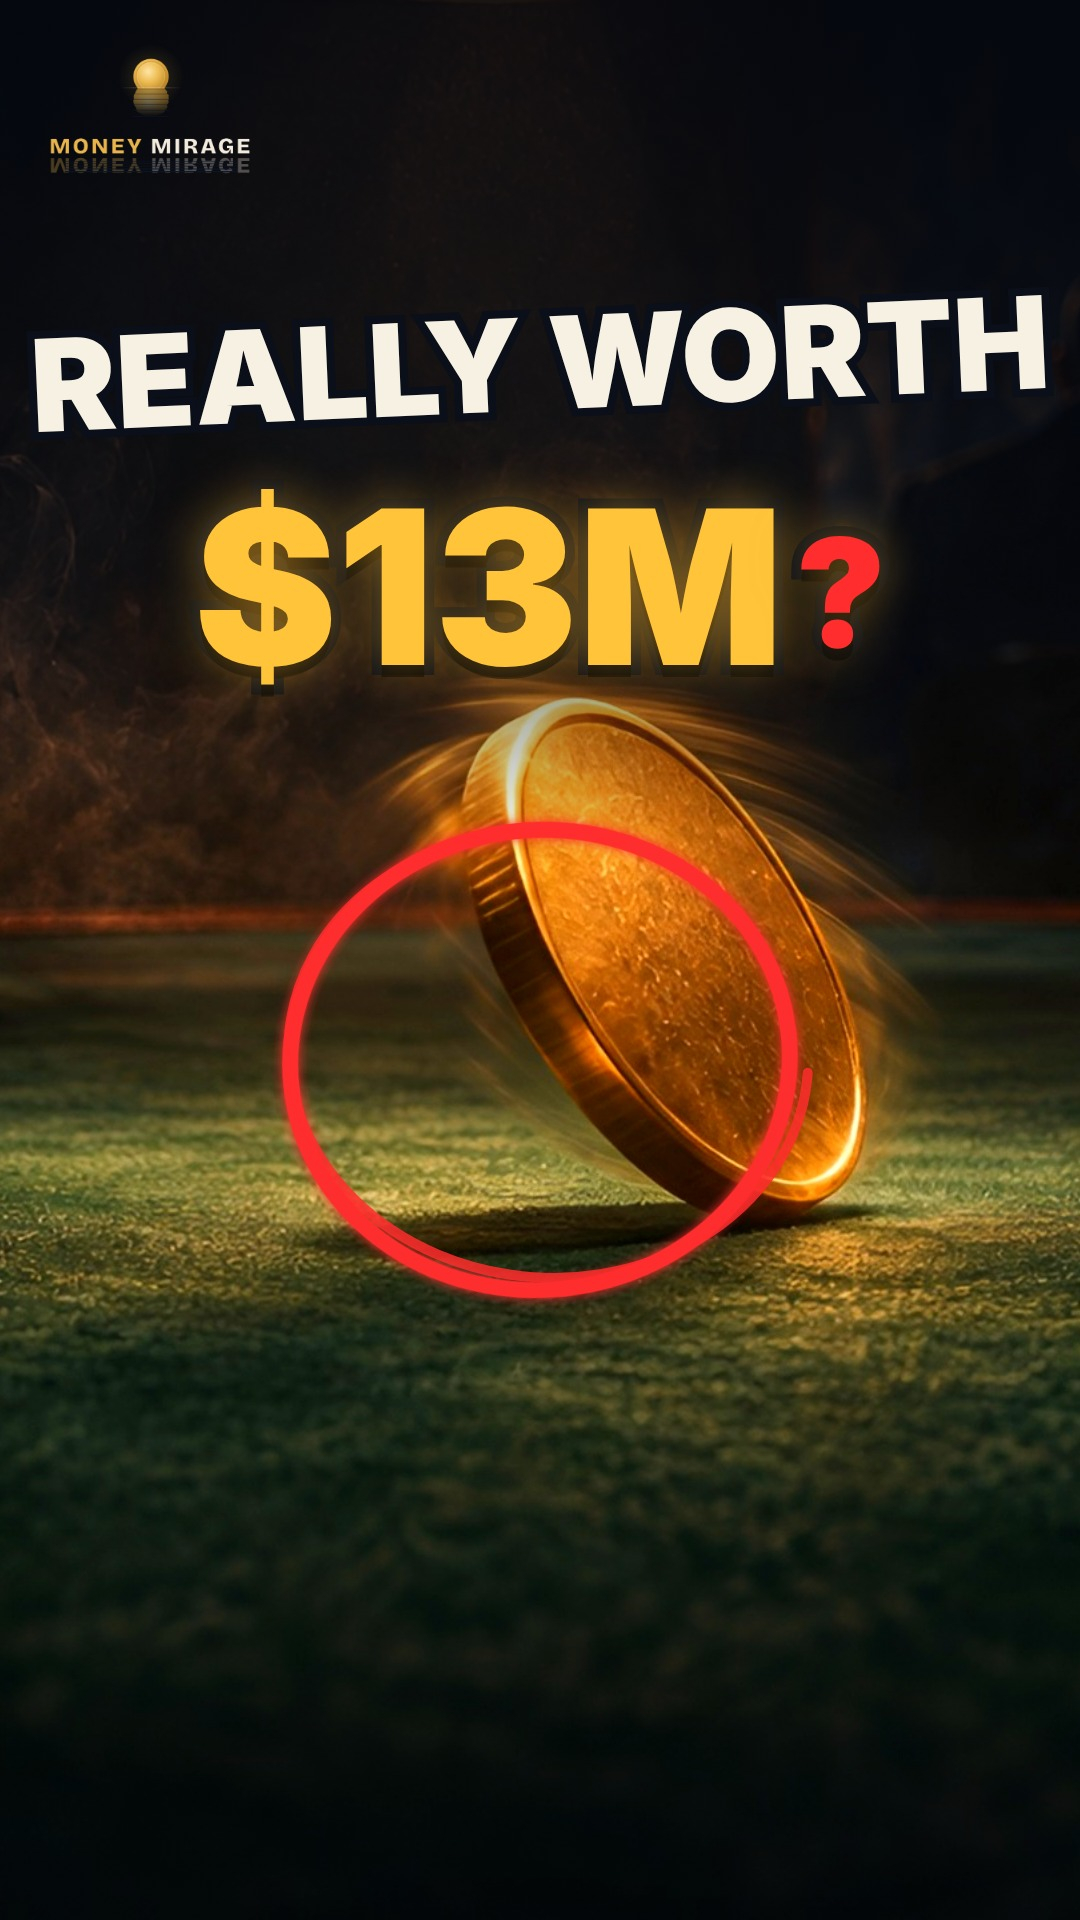
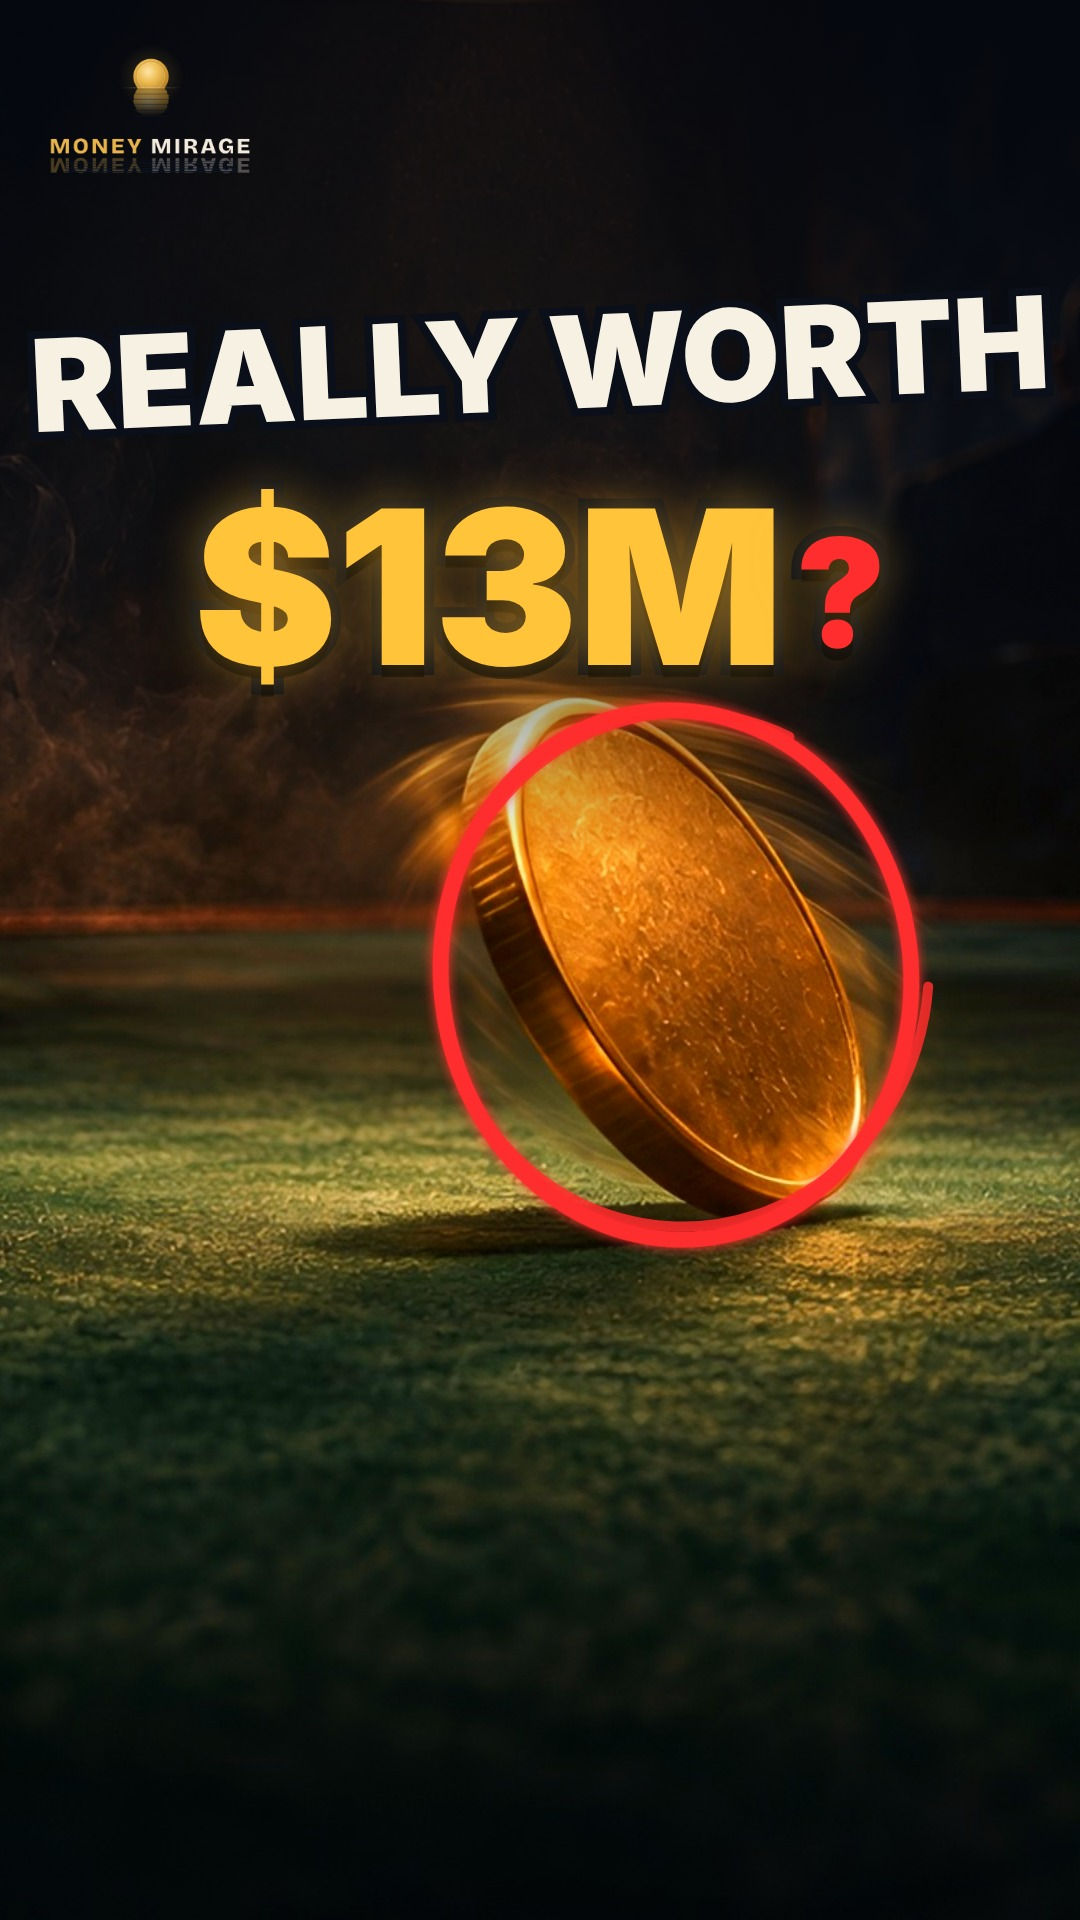
mms s031: thumbnail options A-E (vertical) + feed test
Claude-Session: https://claude.ai/code/session_01Qv21gJoHdC1nLaRycp9MrY

Changed region(s): [[0.2444, 0.3438, 0.8861, 0.6875]]

diff --git a/money-mirage/shorts/s031-maple-coin/thumbs/options/opt_E.html b/money-mirage/shorts/s031-maple-coin/thumbs/options/opt_E.html
@@ -1,0 +1,11 @@
+<!doctype html><html><head><meta charset="UTF-8"><style>@font-face{font-family:Inter;font-weight:900;src:url(file:///home/claude/media-engine/money-mirage/mm3/library/fonts/inter900.woff2)}
+body{margin:0}#r{position:relative;width:1080px;height:1920px;overflow:hidden;background:#05080F}
+.bg{position:absolute;filter:contrast(1.12) saturate(1.55) brightness(1.18)}
+.sh{position:absolute;inset:0;background:linear-gradient(180deg,rgba(5,8,15,.7) 0%,rgba(5,8,15,.35) 28%,rgba(5,8,15,0) 42%)}
+.w,.n{position:absolute;left:0;width:1080px;text-align:center;font-family:Inter,sans-serif;font-weight:900;line-height:1;paint-order:stroke fill}
+.w{font-size:140px;color:#F7F1E3;-webkit-text-stroke:16px #0A0F1A;transform:rotate(-2.5deg)}
+.n{color:#FFC43A;-webkit-text-stroke:20px #0A0F1A;text-shadow:0 0 60px rgba(255,180,40,.7),0 12px 0 rgba(0,0,0,.6)}
+.n b{color:#FF2D2D;font-size:.7em;vertical-align:.12em;margin-left:.06em}
+.s,s{text-decoration:line-through;text-decoration-color:#FF2D2D;text-decoration-thickness:22px} .s{color:#F7F1E3}
+.dk{position:absolute;left:0;right:0;top:960px;height:700px;background:radial-gradient(ellipse at center,rgba(5,8,15,.6) 0%,rgba(5,8,15,0) 70%)}
+.lg{position:absolute;left:36px;top:40px;width:230px} svg{position:absolute;left:0;top:0}</style></head><body><div id="r"><img class="bg" src="file:///home/claude/media-engine/money-mirage/episodes/ep02/art/baked/coin_spin__film.jpg" style="height:1920px;width:3413px;left:-1303px;top:0"><div class="sh"></div><svg width="1080" height="1920"><defs><filter id="gl"><feGaussianBlur stdDeviation="6" result="b"/><feMerge><feMergeNode in="b"/><feMergeNode in="SourceGraphic"/></feMerge></filter></defs><ellipse cx="545" cy="975" rx="235" ry="265" fill="none" stroke="#FF2D2D" stroke-width="16" stroke-linecap="round" transform="rotate(-6 545 975)" filter="url(#gl)" stroke-dasharray="1616 60"/><ellipse cx="553" cy="969" rx="244.4" ry="257.05" fill="none" stroke="#FF2D2D" stroke-width="10" stroke-linecap="round" transform="rotate(4 545 975)" opacity=".85" stroke-dasharray="1272 400"/></svg><div class="n" style="top:250px;font-size:140px;color:#F7F1E3">$1,000,000</div><div class="w" style="top:440px;font-size:130px;color:#FF3B30">COIN?</div><div class="n" style="top:1380px;font-size:200px">LIES<b>!</b></div><img class="lg" src="file:///home/claude/media-engine/money-mirage/logo/MoneyMirage_logo_transparent.png"></div></body></html>

diff --git a/money-mirage/shorts/s031-maple-coin/thumbs/options/opt_A.html b/money-mirage/shorts/s031-maple-coin/thumbs/options/opt_A.html
@@ -1,0 +1,11 @@
+<!doctype html><html><head><meta charset="UTF-8"><style>@font-face{font-family:Inter;font-weight:900;src:url(file:///home/claude/media-engine/money-mirage/mm3/library/fonts/inter900.woff2)}
+body{margin:0}#r{position:relative;width:1080px;height:1920px;overflow:hidden;background:#05080F}
+.bg{position:absolute;filter:contrast(1.12) saturate(1.55) brightness(1.18)}
+.sh{position:absolute;inset:0;background:linear-gradient(180deg,rgba(5,8,15,.7) 0%,rgba(5,8,15,.35) 28%,rgba(5,8,15,0) 42%)}
+.w,.n{position:absolute;left:0;width:1080px;text-align:center;font-family:Inter,sans-serif;font-weight:900;line-height:1;paint-order:stroke fill}
+.w{font-size:140px;color:#F7F1E3;-webkit-text-stroke:16px #0A0F1A;transform:rotate(-2.5deg)}
+.n{color:#FFC43A;-webkit-text-stroke:20px #0A0F1A;text-shadow:0 0 60px rgba(255,180,40,.7),0 12px 0 rgba(0,0,0,.6)}
+.n b{color:#FF2D2D;font-size:.7em;vertical-align:.12em;margin-left:.06em}
+.s,s{text-decoration:line-through;text-decoration-color:#FF2D2D;text-decoration-thickness:22px} .s{color:#F7F1E3}
+.dk{position:absolute;left:0;right:0;top:960px;height:700px;background:radial-gradient(ellipse at center,rgba(5,8,15,.6) 0%,rgba(5,8,15,0) 70%)}
+.lg{position:absolute;left:36px;top:40px;width:230px} svg{position:absolute;left:0;top:0}</style></head><body><div id="r"><img class="bg" src="file:///home/claude/media-engine/money-mirage/episodes/ep01/art/baked/p_mirage__film.jpg" style="height:1920px;width:3413px;left:-1337px;top:0"><div class="sh"></div><svg width="1080" height="1920"><defs><filter id="gl"><feGaussianBlur stdDeviation="6" result="b"/><feMerge><feMergeNode in="b"/><feMergeNode in="SourceGraphic"/></feMerge></filter></defs><ellipse cx="470" cy="365" rx="300" ry="290" fill="none" stroke="#FF2D2D" stroke-width="16" stroke-linecap="round" transform="rotate(-6 470 365)" filter="url(#gl)" stroke-dasharray="1830 60"/><ellipse cx="478" cy="359" rx="312.0" ry="281.3" fill="none" stroke="#FF2D2D" stroke-width="10" stroke-linecap="round" transform="rotate(4 470 365)" opacity=".85" stroke-dasharray="1440 400"/></svg><div class="dk"></div><div class="w" style="top:1040px">STAMPED <s>$1M</s></div><div class="n" style="top:1220px;font-size:260px">$13M<b>?</b></div><img class="lg" src="file:///home/claude/media-engine/money-mirage/logo/MoneyMirage_logo_transparent.png"></div></body></html>

diff --git a/money-mirage/shorts/s031-maple-coin/thumbs/options/opt_C.html b/money-mirage/shorts/s031-maple-coin/thumbs/options/opt_C.html
@@ -1,0 +1,11 @@
+<!doctype html><html><head><meta charset="UTF-8"><style>@font-face{font-family:Inter;font-weight:900;src:url(file:///home/claude/media-engine/money-mirage/mm3/library/fonts/inter900.woff2)}
+body{margin:0}#r{position:relative;width:1080px;height:1920px;overflow:hidden;background:#05080F}
+.bg{position:absolute;filter:contrast(1.12) saturate(1.55) brightness(1.18)}
+.sh{position:absolute;inset:0;background:linear-gradient(180deg,rgba(5,8,15,.7) 0%,rgba(5,8,15,.35) 28%,rgba(5,8,15,0) 42%)}
+.w,.n{position:absolute;left:0;width:1080px;text-align:center;font-family:Inter,sans-serif;font-weight:900;line-height:1;paint-order:stroke fill}
+.w{font-size:140px;color:#F7F1E3;-webkit-text-stroke:16px #0A0F1A;transform:rotate(-2.5deg)}
+.n{color:#FFC43A;-webkit-text-stroke:20px #0A0F1A;text-shadow:0 0 60px rgba(255,180,40,.7),0 12px 0 rgba(0,0,0,.6)}
+.n b{color:#FF2D2D;font-size:.7em;vertical-align:.12em;margin-left:.06em}
+.s,s{text-decoration:line-through;text-decoration-color:#FF2D2D;text-decoration-thickness:22px} .s{color:#F7F1E3}
+.dk{position:absolute;left:0;right:0;top:960px;height:700px;background:radial-gradient(ellipse at center,rgba(5,8,15,.6) 0%,rgba(5,8,15,0) 70%)}
+.lg{position:absolute;left:36px;top:40px;width:230px} svg{position:absolute;left:0;top:0}</style></head><body><div id="r"><img class="bg" src="file:///home/claude/media-engine/money-mirage/episodes/ep02/art/baked/coin_spin__film.jpg" style="height:1920px;width:3413px;left:-1303px;top:0"><div class="sh"></div><svg width="1080" height="1920"><defs><filter id="gl"><feGaussianBlur stdDeviation="6" result="b"/><feMerge><feMergeNode in="b"/><feMergeNode in="SourceGraphic"/></feMerge></filter></defs><ellipse cx="545" cy="975" rx="235" ry="265" fill="none" stroke="#FF2D2D" stroke-width="16" stroke-linecap="round" transform="rotate(-6 545 975)" filter="url(#gl)" stroke-dasharray="1616 60"/><ellipse cx="553" cy="969" rx="244.4" ry="257.05" fill="none" stroke="#FF2D2D" stroke-width="10" stroke-linecap="round" transform="rotate(4 545 975)" opacity=".85" stroke-dasharray="1272 400"/></svg><div class="w" style="top:300px;font-size:128px">REALLY WORTH</div><div class="n" style="top:470px;font-size:215px">$13M<b>?</b></div><img class="lg" src="file:///home/claude/media-engine/money-mirage/logo/MoneyMirage_logo_transparent.png"></div></body></html>

diff --git a/money-mirage/shorts/s031-maple-coin/thumbs/options/opt_D.html b/money-mirage/shorts/s031-maple-coin/thumbs/options/opt_D.html
@@ -1,0 +1,11 @@
+<!doctype html><html><head><meta charset="UTF-8"><style>@font-face{font-family:Inter;font-weight:900;src:url(file:///home/claude/media-engine/money-mirage/mm3/library/fonts/inter900.woff2)}
+body{margin:0}#r{position:relative;width:1080px;height:1920px;overflow:hidden;background:#05080F}
+.bg{position:absolute;filter:contrast(1.12) saturate(1.55) brightness(1.18)}
+.sh{position:absolute;inset:0;background:linear-gradient(180deg,rgba(5,8,15,.7) 0%,rgba(5,8,15,.35) 28%,rgba(5,8,15,0) 42%)}
+.w,.n{position:absolute;left:0;width:1080px;text-align:center;font-family:Inter,sans-serif;font-weight:900;line-height:1;paint-order:stroke fill}
+.w{font-size:140px;color:#F7F1E3;-webkit-text-stroke:16px #0A0F1A;transform:rotate(-2.5deg)}
+.n{color:#FFC43A;-webkit-text-stroke:20px #0A0F1A;text-shadow:0 0 60px rgba(255,180,40,.7),0 12px 0 rgba(0,0,0,.6)}
+.n b{color:#FF2D2D;font-size:.7em;vertical-align:.12em;margin-left:.06em}
+.s,s{text-decoration:line-through;text-decoration-color:#FF2D2D;text-decoration-thickness:22px} .s{color:#F7F1E3}
+.dk{position:absolute;left:0;right:0;top:960px;height:700px;background:radial-gradient(ellipse at center,rgba(5,8,15,.6) 0%,rgba(5,8,15,0) 70%)}
+.lg{position:absolute;left:36px;top:40px;width:230px} svg{position:absolute;left:0;top:0}</style></head><body><div id="r"><img class="bg" src="file:///home/claude/media-engine/money-mirage/episodes/ep02/art/baked/vault_full__film.jpg" style="height:1920px;width:3413px;left:-825px;top:0"><div class="sh"></div><div class="w" style="top:260px;font-size:120px">SAYS <s>$1M</s></div><div class="w" style="top:420px;font-size:120px">WORTH</div><div class="n" style="top:560px;font-size:250px">$13M<b>?</b></div><img class="lg" src="file:///home/claude/media-engine/money-mirage/logo/MoneyMirage_logo_transparent.png"></div></body></html>

diff --git a/money-mirage/shorts/s031-maple-coin/thumbs/options/opt_B.html b/money-mirage/shorts/s031-maple-coin/thumbs/options/opt_B.html
@@ -1,0 +1,11 @@
+<!doctype html><html><head><meta charset="UTF-8"><style>@font-face{font-family:Inter;font-weight:900;src:url(file:///home/claude/media-engine/money-mirage/mm3/library/fonts/inter900.woff2)}
+body{margin:0}#r{position:relative;width:1080px;height:1920px;overflow:hidden;background:#05080F}
+.bg{position:absolute;filter:contrast(1.12) saturate(1.55) brightness(1.18)}
+.sh{position:absolute;inset:0;background:linear-gradient(180deg,rgba(5,8,15,.7) 0%,rgba(5,8,15,.35) 28%,rgba(5,8,15,0) 42%)}
+.w,.n{position:absolute;left:0;width:1080px;text-align:center;font-family:Inter,sans-serif;font-weight:900;line-height:1;paint-order:stroke fill}
+.w{font-size:140px;color:#F7F1E3;-webkit-text-stroke:16px #0A0F1A;transform:rotate(-2.5deg)}
+.n{color:#FFC43A;-webkit-text-stroke:20px #0A0F1A;text-shadow:0 0 60px rgba(255,180,40,.7),0 12px 0 rgba(0,0,0,.6)}
+.n b{color:#FF2D2D;font-size:.7em;vertical-align:.12em;margin-left:.06em}
+.s,s{text-decoration:line-through;text-decoration-color:#FF2D2D;text-decoration-thickness:22px} .s{color:#F7F1E3}
+.dk{position:absolute;left:0;right:0;top:960px;height:700px;background:radial-gradient(ellipse at center,rgba(5,8,15,.6) 0%,rgba(5,8,15,0) 70%)}
+.lg{position:absolute;left:36px;top:40px;width:230px} svg{position:absolute;left:0;top:0}</style></head><body><div id="r"><img class="bg" src="file:///home/claude/media-engine/money-mirage/episodes/ep01/art/baked/gold_cube__film.jpg" style="height:1920px;width:3413px;left:-1952px;top:0"><div class="sh"></div><div class="w" style="top:270px">100 KG GOLD</div><div class="n" style="top:430px;font-size:250px">$13M<b>?</b></div><img class="lg" src="file:///home/claude/media-engine/money-mirage/logo/MoneyMirage_logo_transparent.png"></div></body></html>

diff --git a/money-mirage/shorts/s031-maple-coin/thumbs/make_options.py b/money-mirage/shorts/s031-maple-coin/thumbs/make_options.py
@@ -1,0 +1,59 @@
+# s031 thumbnail options: vertical 1080x1920 only, colour-popping. Renders opt_*.jpg + a contact sheet.
+import os, asyncio
+from playwright.async_api import async_playwright
+H = os.path.dirname(os.path.abspath(__file__)); R = os.path.abspath(os.path.join(H, '../../../..'))
+B = os.path.join(H, '../art/baked'); F = f'file://{R}/money-mirage/mm3/library/fonts/'
+LOGO = f'file://{R}/money-mirage/logo/MoneyMirage_logo_transparent.png'
+W, Hh = 1080, 1920
+def plate(name, x):   # 16:9 plate scaled to 1920 tall, subject at plate x centred
+    pw = Hh * 16 / 9; return f'<img class="bg" src="file://{os.path.realpath(os.path.join(B, name + "__film.jpg"))}" style="height:{Hh}px;width:{pw:.0f}px;left:{540 - x * pw:.0f}px;top:0">'
+def ring(cx, cy, rx, ry, col='#FF2D2D'):
+    return (f'<svg width="{W}" height="{Hh}"><defs><filter id="gl"><feGaussianBlur stdDeviation="6" result="b"/><feMerge><feMergeNode in="b"/><feMergeNode in="SourceGraphic"/></feMerge></filter></defs>'
+            f'<ellipse cx="{cx}" cy="{cy}" rx="{rx}" ry="{ry}" fill="none" stroke="{col}" stroke-width="16" stroke-linecap="round" transform="rotate(-6 {cx} {cy})" filter="url(#gl)" stroke-dasharray="{int(6.1*max(rx,ry))} 60"/>'
+            f'<ellipse cx="{cx+8}" cy="{cy-6}" rx="{rx*1.04}" ry="{ry*.97}" fill="none" stroke="{col}" stroke-width="10" stroke-linecap="round" transform="rotate(4 {cx} {cy})" opacity=".85" stroke-dasharray="{int(4.8*max(rx,ry))} 400"/></svg>')
+OPTS = {
+ 'A': dict(p=plate('p_mirage', .55), body='<div class="dk"></div><div class="w" style="top:1040px">STAMPED <s>$1M</s></div><div class="n" style="top:1220px;font-size:260px">$13M<b>?</b></div>',
+           ring=(470, 365, 300, 290), note='mirage sun-coin; $1M struck out, $13M?'),
+ 'B': dict(p=plate('gold_cube', .73), body='<div class="w" style="top:270px">100 KG GOLD</div><div class="n" style="top:430px;font-size:250px">$13M<b>?</b></div>',
+           ring=None, note='giant gold block; 100 KG GOLD $13M?'),
+ 'C': dict(p=plate('coin_spin', .54), body='<div class="w" style="top:300px;font-size:128px">REALLY WORTH</div><div class="n" style="top:470px;font-size:215px">$13M<b>?</b></div>',
+           ring=(545, 975, 235, 265), note='current design, brightened'),
+ 'D': dict(p=plate('vault_full', .4), body='<div class="w" style="top:260px;font-size:120px">SAYS <s>$1M</s></div><div class="w" style="top:420px;font-size:120px">WORTH</div><div class="n" style="top:560px;font-size:250px">$13M<b>?</b></div>',
+           ring=None, note='gold vault; SAYS $1M / WORTH $13M?'),
+ 'E': dict(p=plate('coin_spin', .54), body='<div class="n" style="top:250px;font-size:140px;color:#F7F1E3">$1,000,000</div><div class="w" style="top:440px;font-size:130px;color:#FF3B30">COIN?</div><div class="n" style="top:1380px;font-size:200px">LIES<b>!</b></div>',
+           ring=(545, 975, 235, 265), note='$1,000,000 COIN? ... LIES!'),
+}
+CSS = f'''@font-face{{font-family:Inter;font-weight:900;src:url({F}inter900.woff2)}}
+body{{margin:0}}#r{{position:relative;width:{W}px;height:{Hh}px;overflow:hidden;background:#05080F}}
+.bg{{position:absolute;filter:contrast(1.12) saturate(1.55) brightness(1.18)}}
+.sh{{position:absolute;inset:0;background:linear-gradient(180deg,rgba(5,8,15,.7) 0%,rgba(5,8,15,.35) 28%,rgba(5,8,15,0) 42%)}}
+.w,.n{{position:absolute;left:0;width:{W}px;text-align:center;font-family:Inter,sans-serif;font-weight:900;line-height:1;paint-order:stroke fill}}
+.w{{font-size:140px;color:#F7F1E3;-webkit-text-stroke:16px #0A0F1A;transform:rotate(-2.5deg)}}
+.n{{color:#FFC43A;-webkit-text-stroke:20px #0A0F1A;text-shadow:0 0 60px rgba(255,180,40,.7),0 12px 0 rgba(0,0,0,.6)}}
+.n b{{color:#FF2D2D;font-size:.7em;vertical-align:.12em;margin-left:.06em}}
+.s,s{{text-decoration:line-through;text-decoration-color:#FF2D2D;text-decoration-thickness:22px}} .s{{color:#F7F1E3}}
+.dk{{position:absolute;left:0;right:0;top:960px;height:700px;background:radial-gradient(ellipse at center,rgba(5,8,15,.6) 0%,rgba(5,8,15,0) 70%)}}
+.lg{{position:absolute;left:36px;top:40px;width:230px}} svg{{position:absolute;left:0;top:0}}'''
+async def main():
+    async with async_playwright() as p:
+        b = await p.chromium.launch(executable_path=os.environ.get('HYPERFRAMES_BROWSER_PATH'))
+        for k, o in OPTS.items():
+            html = f'<!doctype html><html><head><meta charset="UTF-8"><style>{CSS}</style></head><body><div id="r">{o["p"]}<div class="sh"></div>{ring(*o["ring"]) if o["ring"] else ""}{o["body"]}<img class="lg" src="{LOGO}"></div></body></html>'
+            f = os.path.join(H, 'options', f'opt_{k}.html'); open(f, 'w').write(html)
+            pg = await b.new_page(viewport={'width': W, 'height': Hh}); await pg.goto('file://' + f); await pg.evaluate('document.fonts.ready'); await pg.wait_for_timeout(400)
+            await pg.screenshot(path=f.replace('.html', '.png')); await pg.close()
+        await b.close()
+asyncio.run(main())
+from PIL import Image, ImageDraw
+ims = []
+for k in OPTS:
+    im = Image.open(os.path.join(H, 'options', f'opt_{k}.png')).convert('RGB'); im.save(os.path.join(H, 'options', f'opt_{k}.jpg'), quality=90); ims.append((k, im))
+S = Image.new('RGB', (len(ims) * 370 + 10, 680), '#222'); d = ImageDraw.Draw(S)
+for i, (k, im) in enumerate(ims):
+    t = im.resize((360, 640)); S.paste(t, (10 + i * 370, 30)); d.text((14 + i * 370, 8), k, fill='white')
+S.save(os.path.join(H, 'options', 'options_sheet.jpg'), quality=88)
+# 140 px feed test row
+F2 = Image.new('RGB', (len(ims) * 150, 250), '#222')
+for i, (k, im) in enumerate(ims): F2.paste(im.resize((140, 249)), (i * 150, 0))
+F2.save(os.path.join(H, 'options', 'feed_test.jpg'))
+print('ok')

diff --git a/money-mirage/shorts/s031-maple-coin/thumbs/make_thumbs.py b/money-mirage/shorts/s031-maple-coin/thumbs/make_thumbs.py
@@ -4,7 +4,7 @@ from playwright.async_api import async_playwright
 H = os.path.dirname(os.path.abspath(__file__)); R = os.path.abspath(os.path.join(H, '../../../..'))
 _P = os.path.join(H, '../art/baked/coin_case__film.jpg'); PLATE_SRC = os.path.realpath(_P if os.path.exists(_P) else os.path.join(H, '../art/baked/coin_spin__film.jpg')); PLATE = 'file://' + PLATE_SRC
 PORTRAIT = 'coin_case' in PLATE_SRC
-CIRC = (540, 1000, 300, 300) if PORTRAIT else (540, 1060, 250, 230); LOGO = f'file://{R}/money-mirage/logo/MoneyMirage_logo_transparent.png'
+CIRC = (540, 1000, 300, 300) if PORTRAIT else (676, 975, 235, 265); LOGO = f'file://{R}/money-mirage/logo/MoneyMirage_logo_transparent.png'
 F = f'file://{R}/money-mirage/mm3/library/fonts/'
 WORDS = {'en': 'REALLY WORTH'}
 def circle(cx, cy, rx, ry):   # two overlapping hand-drawn ellipses with a glow
